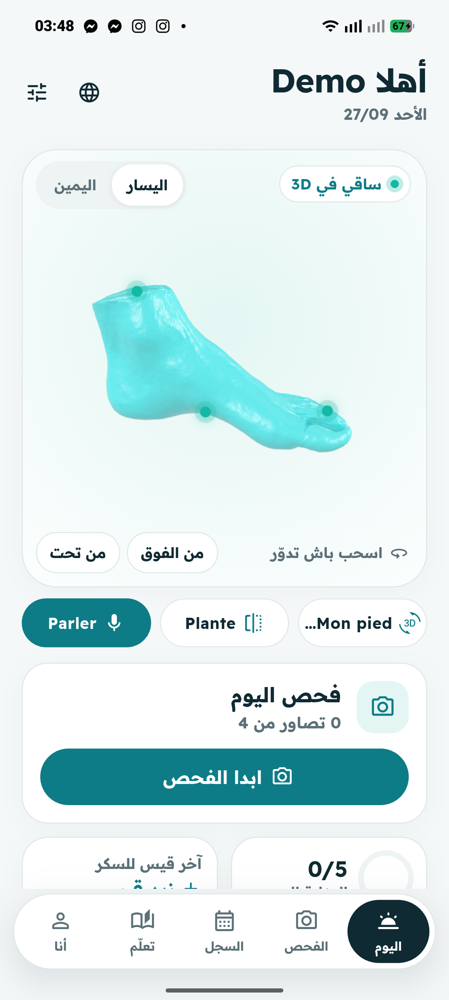
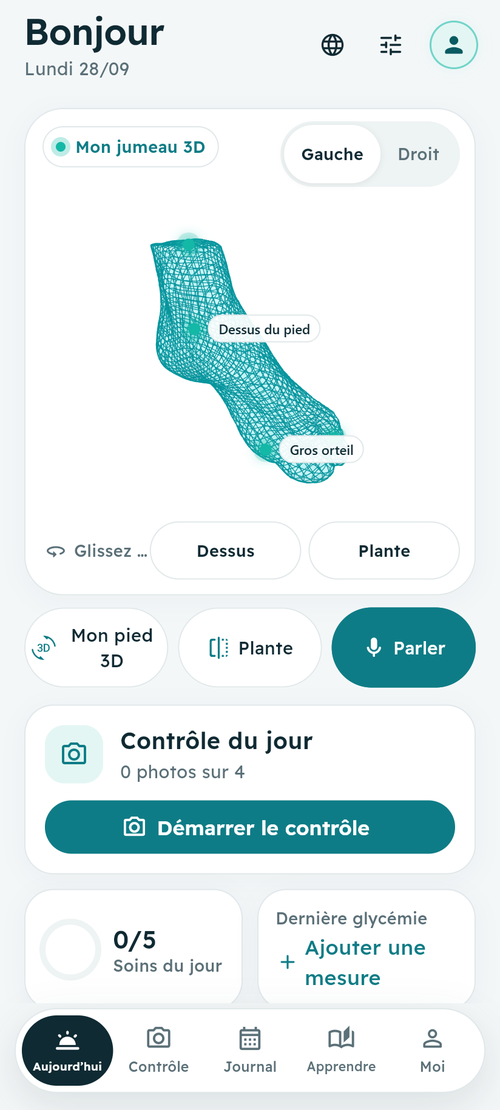
README: new screenshots (welcome, home, education centre) and the QR on its own line

diff --git a/README.md b/README.md
@@ -17,13 +17,21 @@
 
 <br/>
 
-<img src="docs/images/app-home.png" width="250" alt="Khatwa home: the patient's 3D foot"/>
-&nbsp;&nbsp;
-<img src="docs/images/app-voice-urgent.png" width="250" alt="The voice assistant raising an urgent sign with the 190 button"/>
-&nbsp;&nbsp;
-<img src="docs/images/qr-demo.png" width="220" alt="QR code to try Khatwa"/>
+<img src="docs/images/app-landing.png" width="200" alt="Khatwa welcome: the hologram foot, patient or health professional"/>
+&nbsp;
+<img src="docs/images/app-home.png" width="200" alt="Khatwa home: the patient's 3D foot and the daily check"/>
+&nbsp;
+<img src="docs/images/app-learn.png" width="200" alt="The education centre: illustrated warning signs and care"/>
+&nbsp;
+<img src="docs/images/app-voice-urgent.png" width="200" alt="The voice assistant raising an urgent sign with the 190 button"/>
 
-<sub>Home on the patient's 3D foot · an urgent sign told to the assistant · scan to try it (no install)</sub>
+<sub>Welcome · home on the patient's 3D foot · the education centre · an urgent sign told to the assistant</sub>
+
+<br/><br/>
+
+<img src="docs/images/qr-demo.png" width="160" alt="QR code to try Khatwa"/>
+
+<sub>Scan to try it on any phone, no install: <b>khatwa-demo.netlify.app</b></sub>
 
 </div>
 
